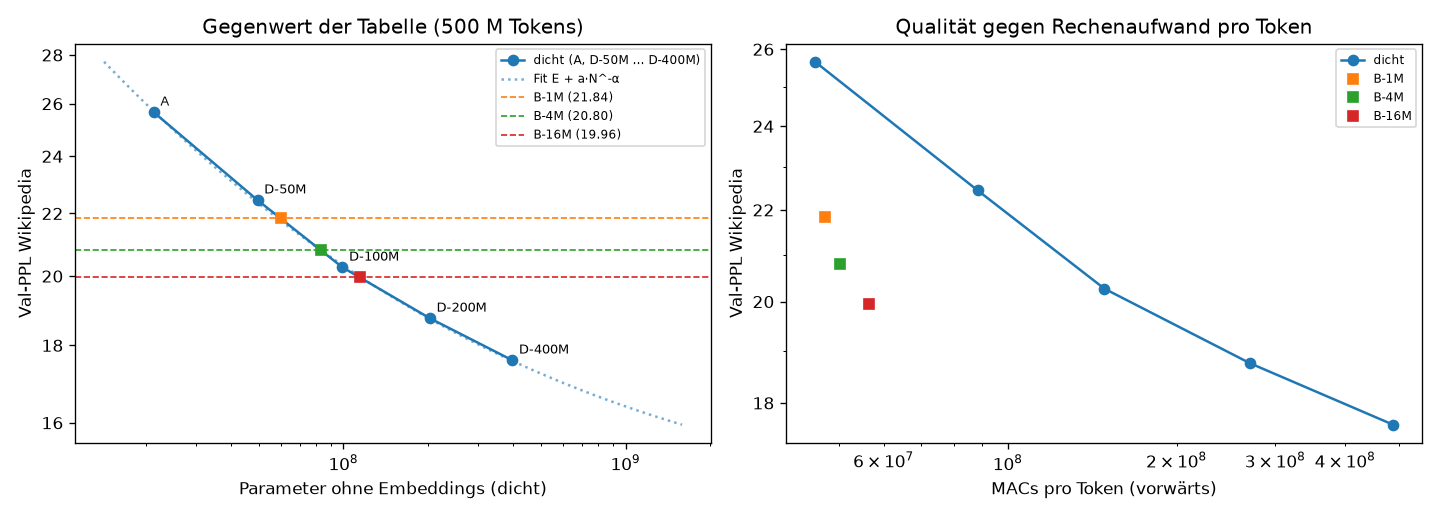
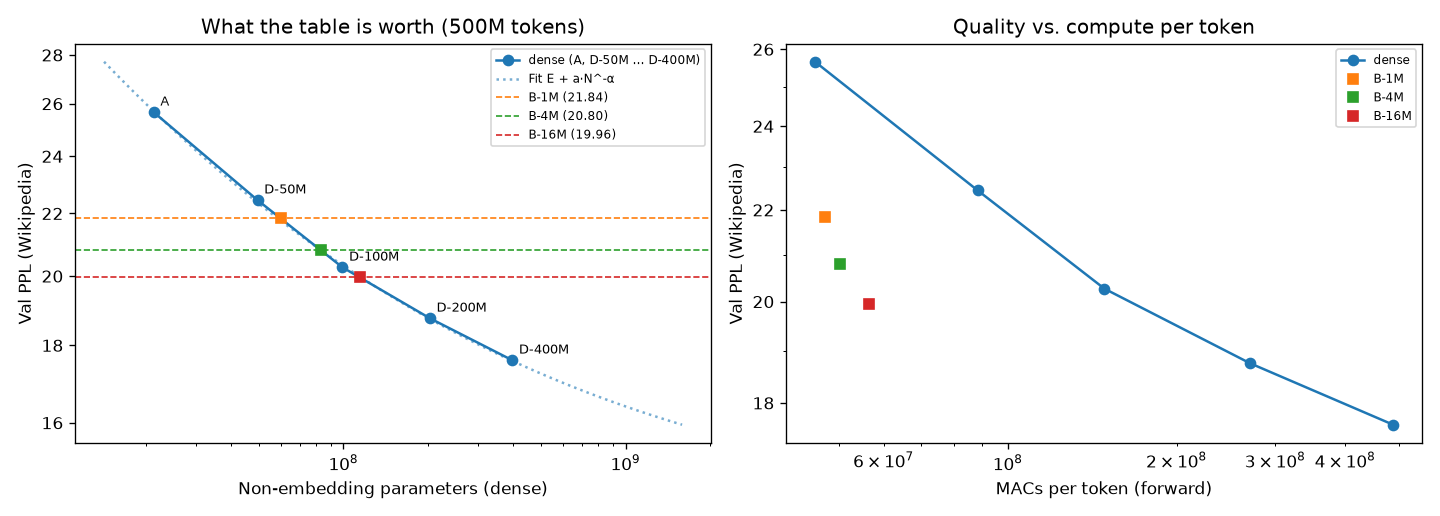
README figures in English (dense equivalent, table on the NVMe); summarize_offload.py skips the identical_check files
Regenerated from the same data: report/dense_equiv.json and report/offload_summary.json come out unchanged.

Claude-Session: https://claude.ai/code/session_019qFk4hJ98tAkLc3kBY5njm

diff --git a/scripts/summarize_offload.py b/scripts/summarize_offload.py
@@ -39,8 +39,12 @@ def row(r):
     return out
 
 
+NAMES = {"a-q4": "4-bit table in VRAM", "b-q4": "4-bit table in RAM"}
+
+
 def main():
-    rows = [row(json.load(open(f))) for f in sorted(glob.glob(os.path.join(ROOT, "report", "offload", "*.json")))]
+    rows = [row(json.load(open(f))) for f in sorted(glob.glob(os.path.join(ROOT, "report", "offload", "*.json")))
+            if not os.path.basename(f).startswith("identical_check")]         # those come from check_offload_identical.py
     json.dump(rows, open(os.path.join(ROOT, "report", "offload_summary.json"), "w"), indent=1)
     cols = ["name", "decode_tok_s_first", "decode_tok_s_median", "prefill_tok_s_median", "hit_decode_first",
             "hit_prefill", "nvme_reads_s_prefill", "vram_used_total_gib_load", "rss_peak_gib", "ppl_subset", "ppl_full"]
@@ -62,24 +66,24 @@ def main():
     fig, ax = plt.subplots(1, 3, figsize=(13, 3.8))
     x = [100 * r["cache_frac"] for r in cs]
     ref = {r["variant"]: r for r in rows if r["variant"] in ("a-q4", "b-q4") and "nographs" not in r["name"]}
-    ax[0].plot(x, [r["decode_tok_s_first"] for r in cs], "o-", label="c, erster Durchgang (kalt)")
-    ax[0].plot(x, [r["decode_tok_s_median"] for r in cs], "s--", label="c, Median 3 Prompts")
+    ax[0].plot(x, [r["decode_tok_s_first"] for r in cs], "o-", label="NVMe, first prompt (cold)")
+    ax[0].plot(x, [r["decode_tok_s_median"] for r in cs], "s--", label="NVMe, median of 3 prompts")
     for k, st in (("a-q4", ":"), ("b-q4", "-.")):
         if k in ref:
-            ax[0].axhline(ref[k]["decode_tok_s_median"], ls=st, color="gray", label=f"{k}")
-    ax[0].set(xlabel="RAM-Cache (% der Zeilen)", ylabel="Tokens/s", title="Schreiben (Batch 1)", ylim=(0, 240))
+            ax[0].axhline(ref[k]["decode_tok_s_median"], ls=st, color="gray", label=NAMES[k])
+    ax[0].set(xlabel="RAM cache (% of rows)", ylabel="tokens/s", title="Writing (batch 1)", ylim=(0, 240))
     ax[0].legend(fontsize=7)
-    ax[1].plot(x, [r["prefill_tok_s_median"] for r in cs], "o-", label="c")
+    ax[1].plot(x, [r["prefill_tok_s_median"] for r in cs], "o-", label="NVMe")
     for k, st in (("a-q4", ":"), ("b-q4", "-.")):
         if k in ref:
-            ax[1].axhline(ref[k]["prefill_tok_s_median"], ls=st, color="gray", label=k)
-    ax[1].set(xlabel="RAM-Cache (% der Zeilen)", ylabel="Tokens/s", title="Einlesen (4 × 1024)", yscale="log")
+            ax[1].axhline(ref[k]["prefill_tok_s_median"], ls=st, color="gray", label=NAMES[k])
+    ax[1].set(xlabel="RAM cache (% of rows)", ylabel="tokens/s", title="Reading a prompt (4 × 1024)", yscale="log")
     ax[1].legend(fontsize=7)
-    ax[2].plot(x, [100 * r["hit_decode_first"] for r in cs], "o-", label="Schreiben, kalt")
-    ax[2].plot(x, [100 * r["hit_prefill"] for r in cs], "s--", label="Einlesen")
-    ax[2].set(xlabel="RAM-Cache (% der Zeilen)", ylabel="Trefferquote %", title="Cache-Treffer", ylim=(0, 100))
+    ax[2].plot(x, [100 * r["hit_decode_first"] for r in cs], "o-", label="writing, cold")
+    ax[2].plot(x, [100 * r["hit_prefill"] for r in cs], "s--", label="reading a prompt")
+    ax[2].set(xlabel="RAM cache (% of rows)", ylabel="hit rate (%)", title="RAM cache hits", ylim=(0, 100))
     ax[2].legend(fontsize=7)
-    fig.suptitle("B-16M zu Hause: 4-Bit-Tabelle auf der NVMe (Variante c) – RX 9070, Samsung 990 PRO")
+    fig.suptitle("B-16M on my PC: 4-bit table on the NVMe – RX 9070, Samsung 990 PRO")
     fig.tight_layout()
     fig.savefig(os.path.join(ROOT, "report", "offload_cache.png"), dpi=120)
 

diff --git a/scripts/dense_equiv.py b/scripts/dense_equiv.py
@@ -124,7 +124,7 @@ def main():
         return
     fig, ax = plt.subplots(1, 2, figsize=(12, 4.3))
     ns = [d["n"] for _, d in dense]
-    ax[0].plot(ns, [d["ppl"] for _, d in dense], "o-", color="C0", label="dicht (A, D-50M … D-400M)")
+    ax[0].plot(ns, [d["ppl"] for _, d in dense], "o-", color="C0", label="dense (A, D-50M … D-400M)")
     for (name, d) in dense:
         ax[0].annotate(name, (d["n"], d["ppl"]), textcoords="offset points", xytext=(4, 4), fontsize=8)
     if f:
@@ -134,14 +134,14 @@ def main():
         ax[0].axhline(b["ppl"], color=f"C{i + 1}", ls="--", lw=1, label=f"{name} ({b['ppl']:.2f})")
         if b["n_eq"]:
             ax[0].plot([b["n_eq"]], [b["ppl"]], "s", color=f"C{i + 1}")
-    ax[0].set(xscale="log", yscale="log", xlabel="Parameter ohne Embeddings (dicht)", ylabel="Val-PPL Wikipedia",
-              title="Gegenwert der Tabelle (500 M Tokens)")
+    ax[0].set(xscale="log", yscale="log", xlabel="Non-embedding parameters (dense)", ylabel="Val PPL (Wikipedia)",
+              title="What the table is worth (500M tokens)")
     ax[0].legend(fontsize=7)
-    ax[1].plot([d["macs"] for _, d in dense], [d["ppl"] for _, d in dense], "o-", color="C0", label="dicht")
+    ax[1].plot([d["macs"] for _, d in dense], [d["ppl"] for _, d in dense], "o-", color="C0", label="dense")
     for i, (name, b) in enumerate(out["b"].items()):
         ax[1].plot([b["macs"]], [b["ppl"]], "s", color=f"C{i + 1}", label=name)
-    ax[1].set(xscale="log", yscale="log", xlabel="MACs pro Token (vorwärts)", ylabel="Val-PPL Wikipedia",
-              title="Qualität gegen Rechenaufwand pro Token")
+    ax[1].set(xscale="log", yscale="log", xlabel="MACs per token (forward)", ylabel="Val PPL (Wikipedia)",
+              title="Quality vs. compute per token")
     ax[1].legend(fontsize=7)
     from matplotlib.ticker import FixedLocator, NullFormatter, ScalarFormatter
     for a in ax:
